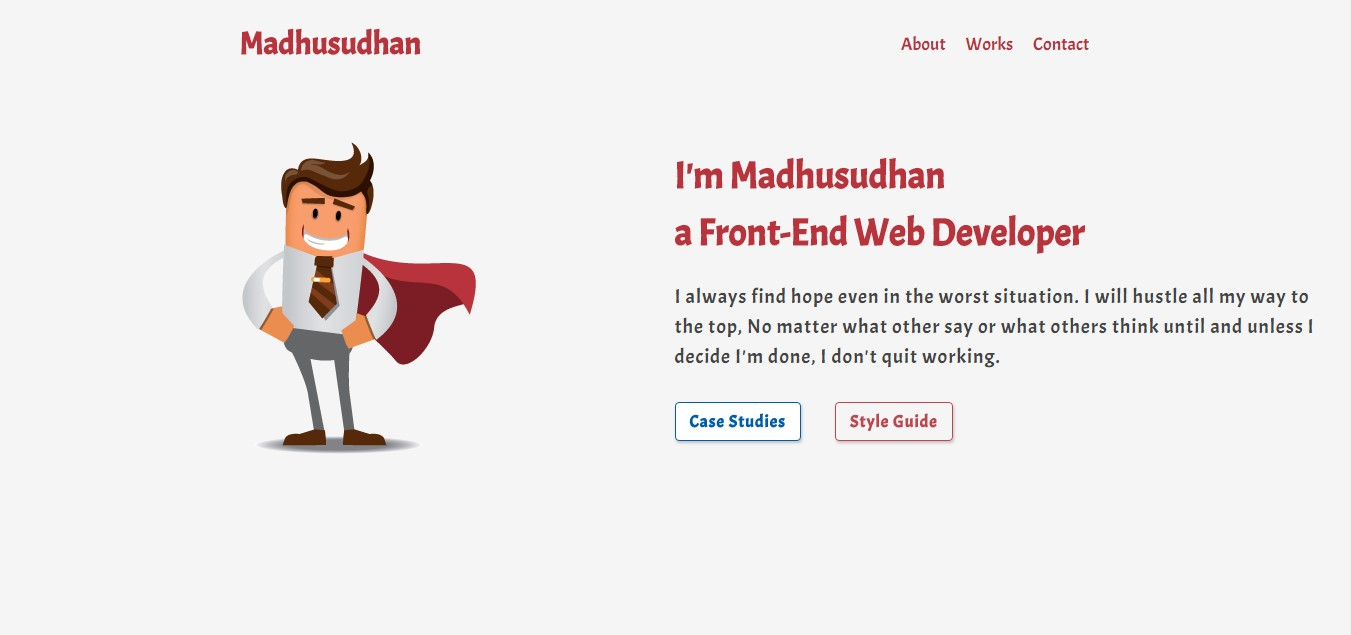
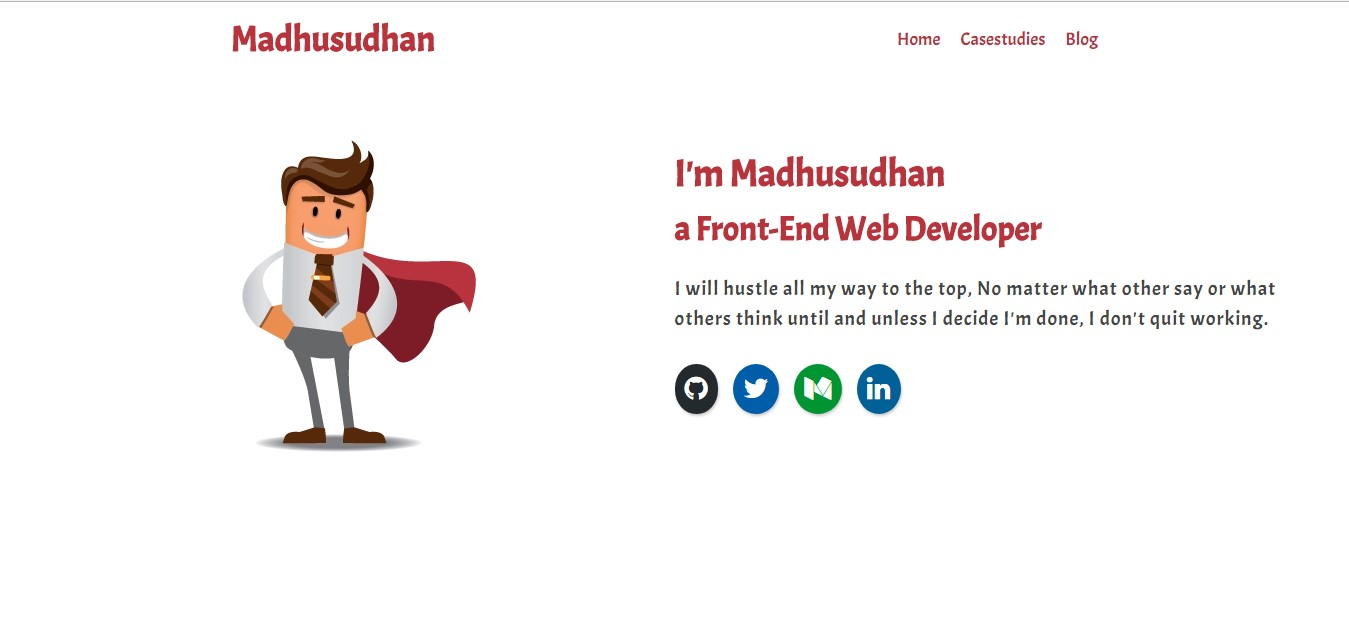
updated skills section, message button, menulinks and replaced case studies image

diff --git a/src/components/Skills.js b/src/components/Skills.js
@@ -6,36 +6,34 @@ import ideapng from "../images/idea.png";
 const Skills = props => {
   const skilldata = [
     {
-      key: 1,
-      title: "Human Readable code",
+      title: "Writing Human Readable code",
       description:
-        "I code for humans. I like to write comments where necessary."
+        "I code for humans. You can find comments where ever its necessary in my code."
     },
     {
-      key: 2,
       title: "Structured and clean HTML5",
-      description: "I write structured html following the modern web standards"
+      description: "I write structured html following the modern web standards."
     },
     {
-      key: 3,
-      title: "Modular CSS3",
+      title: "Cool CSS3",
       description: "I just love CSS. Especially CSS animations are just cool..."
     },
     {
-      key: 4,
-      title: "Functional Javascript",
+      title: "Modularity with Sass",
+      description: "Sass is even more fun to play with. It has given me a way to split css into different files, mixins to reduce the time and effort in coding."
+    },
+    {
+      title: "Going Functional with Javascript",
       description:
-        "I find I have more freedom when writing Javascript because it don't impose a style. ES6 has added more power to the web with new features."
+        "I find I have more freedom when writing Javascript because it don't impose a particular style."
     },
     {
-      key: 5,
-      title: "Magical React js",
-      description: "Components are the powerhouses"
+      title: "My Magical Horse React js",
+      description: "React didn't just come as just a library but also showed a new component paradigm to build web apps. This site itself is powered by React."
     },
     {
-      key: 6,
       title: "Maintaining versions",
-      description: "I use git for this."
+      description: "Initialising git is the first I do in all my projects. It's like a journal for me to be accountable."
     }
   ];
 
@@ -43,18 +41,18 @@ const Skills = props => {
     <section id="my-skills">
       <h2 className="heading">I'm Good at</h2>
       <div className="skills__wrapper">
-      <div className="idea__wrapper">
-        <picture>
-          <source srcSet={idea} type="image/webp" />
-          <img src={ideapng} alt="skills" className="idea__img" />
-        </picture>
-      </div>
+        <div className="idea__wrapper">
+          <picture>
+            <source srcSet={idea} type="image/webp" />
+            <img src={ideapng} alt="skills" className="idea__img" />
+          </picture>
+        </div>
 
-      <div className="skills">
-        {skilldata.map(skill => {
-          return <Skill skill={skill} key={skill.key} />;
-        })}
-      </div>
+        <div className="skills">
+          {skilldata.map((skill, index) => {
+            return <Skill skill={skill} key={index} />;
+          })}
+        </div>
       </div>
     </section>
   );

diff --git a/src/scss/components/_hero.scss b/src/scss/components/_hero.scss
@@ -20,6 +20,17 @@
   left: 20%;
   user-select: none;
   display: block;
+  animation: slidein 2s ease;
+}
+
+@keyframes slidein{
+  0%{
+    transform: translateX(-100%);
+  }
+  100%{
+    transform: translateX(0%);
+    transition: 2s ease;
+  }
 }
 
 .intro {
@@ -66,13 +77,17 @@
   padding: 10px;
   border-radius: 50%;
   font-size: 20px;
+  transition:1s ease;
+  box-shadow: 1px 2px 3px 0px rgba(0,0,0,0.2);  
   &--github {
     color: #24292e;
     background: #24292e;
     color: #fff;
   }
   &:hover{
-    animation: iconrotate 0.5s;
+    // animation: iconrotate 0.5s;
+    transform:scale(1.1);
+    transition:1s ease;
   }
   
 

diff --git a/src/components/Header.js b/src/components/Header.js
@@ -24,13 +24,14 @@ const Header = () => {
               to="/casestudies"
               activeClassName="is-active"
               className="menu__link"
+              exact={true}
             >
               Casestudies
             </NavLink>
           </li>
           <li className="menu__item">
-            <a href="#" className="menu__link">
-              Works
+            <a href="https://medium.com/@itsmadhusudhan" className="menu__link" target="_blank">
+              Blog
             </a>
           </li>
         </ul>

diff --git a/src/routers/AppRouter.js b/src/routers/AppRouter.js
@@ -15,8 +15,8 @@ const AppRouter = () => {
         <Switch>
           <Route path="/" component={Layout} exact={true} />
           <Route path="/casestudies" component={Casestudies} exact={true} />
-          <Route path="/casestudies/portfolio-site" component={Portfolio} />
-          <Route path="*" component={NotFound} />
+          <Route path="/casestudies/portfolio-site" component={Portfolio} exact={true} />
+          <Route component={NotFound}/>
         </Switch>
         <Footer />
       </div>

diff --git a/src/components/Hello.js b/src/components/Hello.js
@@ -14,9 +14,8 @@ const Hello = props => {
       </div>
       <div className="hello__text">
         <p className="text">
-          I'm a Front-End Developer from Bengaluru. I love and desire for web
-          development is endless.I'm a man on curiosity when it comes to
-          learning new things.
+          I'm a Front-End Developer from Bengaluru. My love and desire for web
+          development is endless. Learning new things excites me very much.
         </p>
       </div>
     </section>

diff --git a/src/scss/components/_skills.scss b/src/scss/components/_skills.scss
@@ -3,7 +3,7 @@
 
 #my-skills {
   font-family: Acme;
-  max-width: 80%;
+  max-width: 50%;
   margin: auto;
   text-align: center;
   position: relative;
@@ -50,6 +50,12 @@
 
 #my-skills p::selection{
   background:#ECA042;
+}
+
+@media screen and (max-width:900px){
+  #my-skills{
+    max-width:80%;
+  }
 }
 
 @media screen and (max-width:450px){

diff --git a/src/components/Hireme.js b/src/components/Hireme.js
@@ -19,7 +19,7 @@ const Hireme = props => {
         I got skills. If you are impressed, message me for an interview.
       </p>
       <div className="btn__wrapper">
-        <a href="/" className="btn btn--green">
+        <a href="mailto:madhusudhan1863@gmail.com" className="btn btn--green">
           Message Me
         </a>
       </div>

diff --git a/src/components/Footer.js b/src/components/Footer.js
@@ -6,7 +6,7 @@ const Footer = props => {
       <p>
         Crafted by Madhusudhan &amp;
         <a
-          href="https://www.freepik.com/free-vector/worker-with-doubts_834551.htm"
+          href="http://www.freepik.com/alekksall"
           className="link"
         target="_blank">
           Images by Freepik

diff --git a/src/components/Portfolio.js b/src/components/Portfolio.js
@@ -3,7 +3,7 @@ import React from "react";
 const Portfolio = props => {
   return (
     <div>
-      <p>My portfolio site case study page</p>
+      <p>My portfolio site case study page coming soon</p>
     </div>
   );
 };

diff --git a/src/components/Layout.js b/src/components/Layout.js
@@ -12,7 +12,6 @@ const Layout=(props)=>{
             <Hero/>
             <Hello/>
             <Skills/>
-            <Works/>
             <Hireme/>
         </div>
     )

diff --git a/src/scss/components/_header.scss b/src/scss/components/_header.scss
@@ -11,6 +11,7 @@ header {
   // background: #e0ebe8;
   /* background: #a8c8b9;   */
   padding-top: 10px;
+  z-index: 99;
 }
 
 .container {
